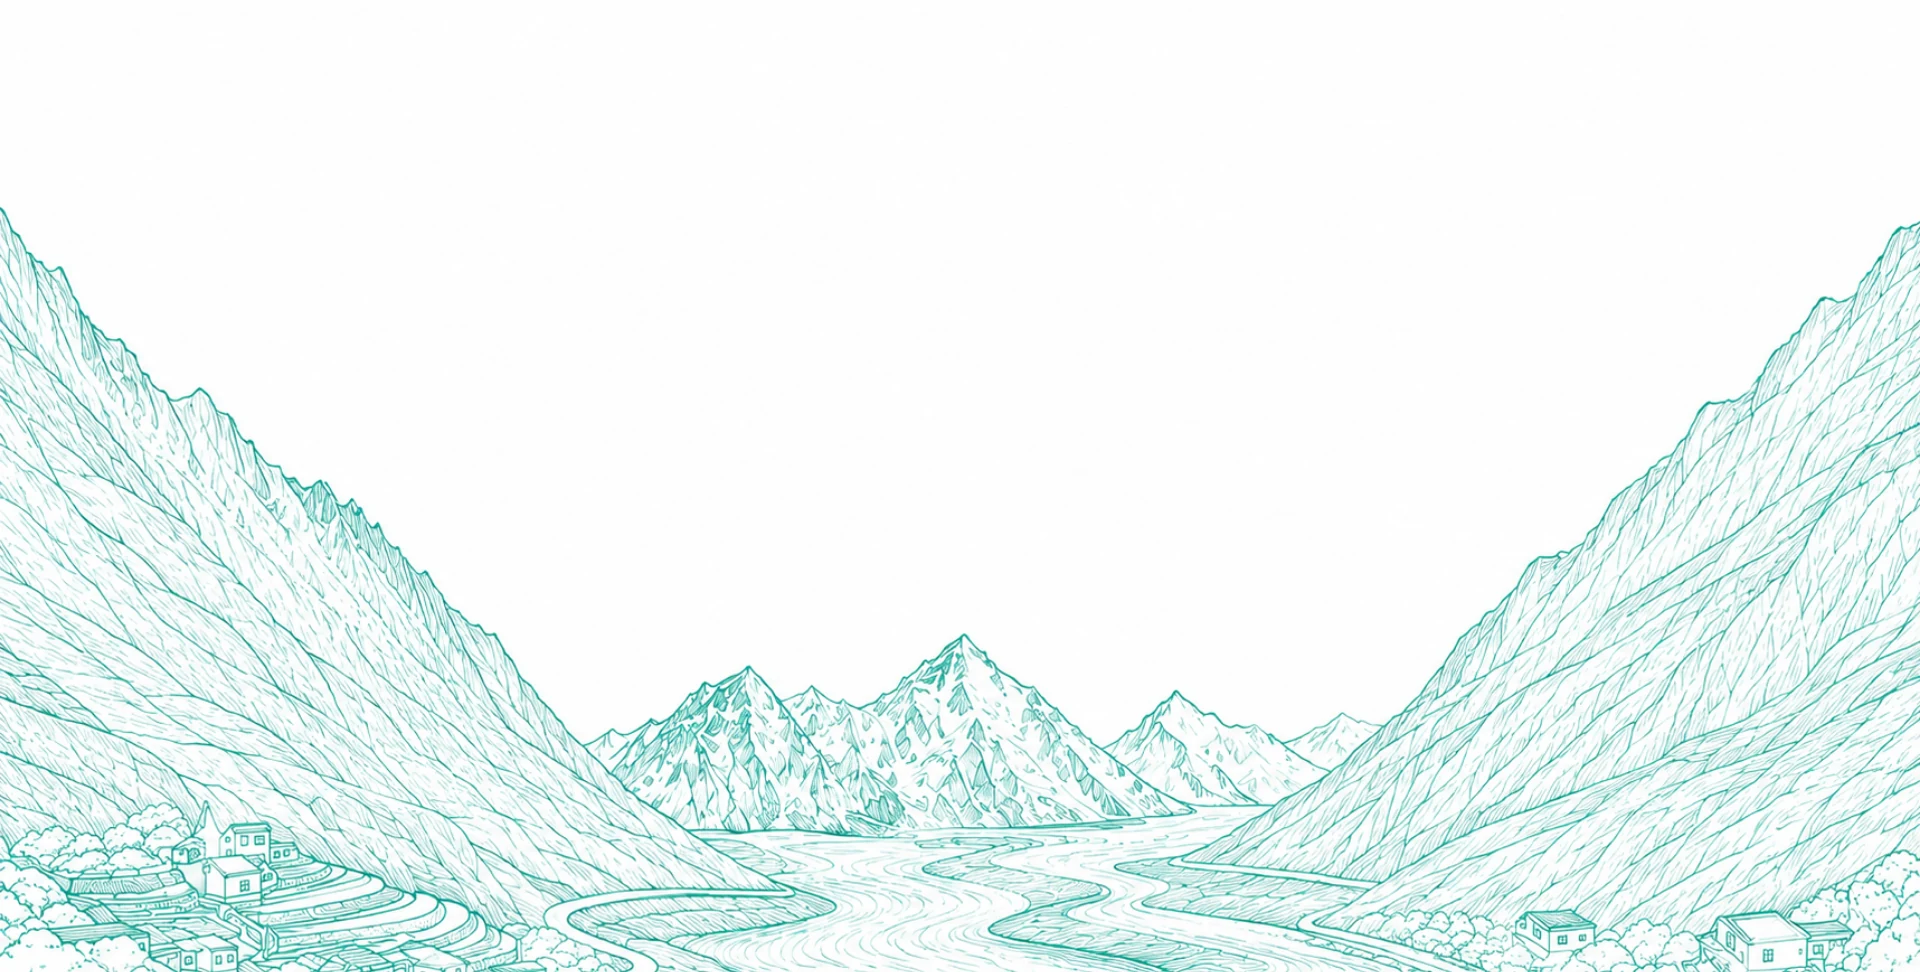
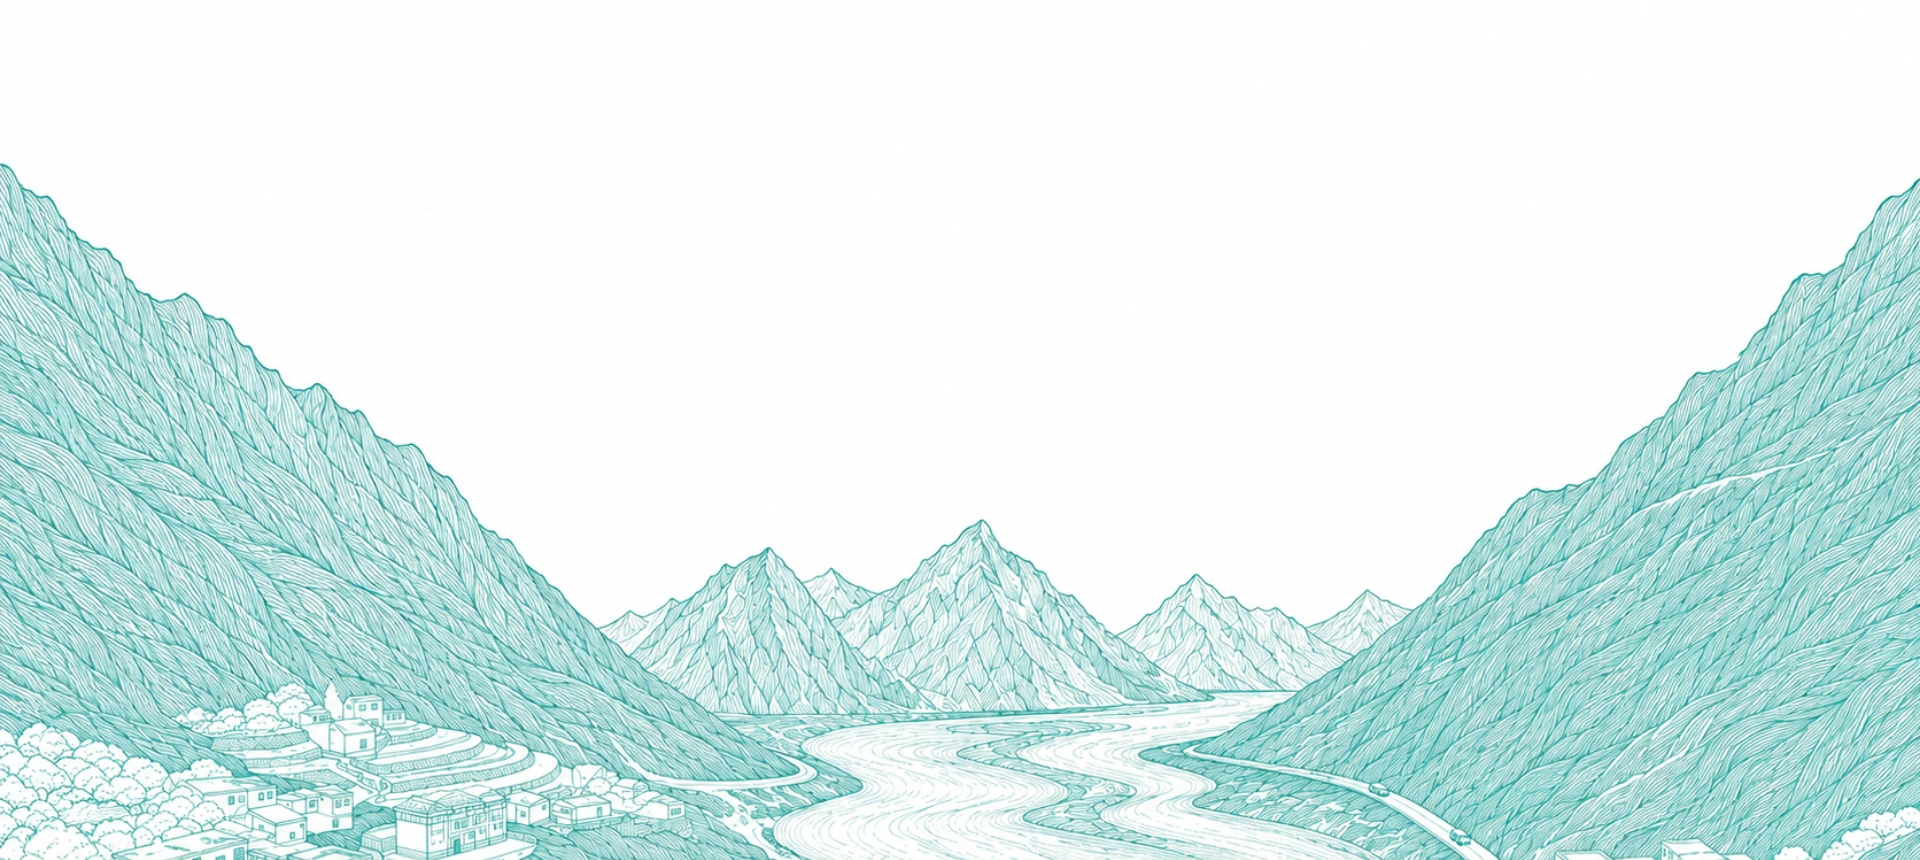
Swap in the revised valley drawing, and size it to the width
Replaces the hero artwork with the newer file: same valley, but denser
hatching, a stronger teal and more open sky.

It needed a different fit. The new drawing is a wider panorama (2.23:1 rather
than 1.98:1) and its centre column stops being clear paper at about 60% of its
height rather than 65%. Under `cover` the browser scaled it until it filled
the hero's height as well as its width, which enlarged the ridges until the
peaks reached the stats line — measured at 76.9% clear paper behind that row,
against 88.6% before the swap. Sizing to the width alone keeps the valley at
its drawn proportions along the bottom edge and returns the row to 85.4%,
with the text itself on clean paper.

The supplied file carried a 220px black letterbox bar, twice the previous
one's, which is cropped. Stored as WebP at 308KB rather than the 2.4MB PNG,
with a mean per-pixel difference of 1.83/255 so the hatching survives intact.

Still full strength: no fade, no mask, no blur.

diff --git a/client/src/index.css b/client/src/index.css
@@ -127,7 +127,14 @@
        text exactly as drawn.
     */
     background-position: bottom center;
-    background-size: cover;
+    /*
+       100% width, not `cover`. The drawing is a wide panorama; `cover` scales
+       it until it fills the hero's height too, which enlarges the ridges until
+       the peaks climb into the stats line. Sizing to the width alone keeps the
+       valley at its drawn proportions along the bottom edge and leaves the sky
+       above it open, which is where every line of text sits.
+    */
+    background-size: 100% auto;
     /*
        Full strength, no fade and no mask. The previous artwork was dense cobalt
        and had to be dropped to 16% with a gradient mask or it swamped the
